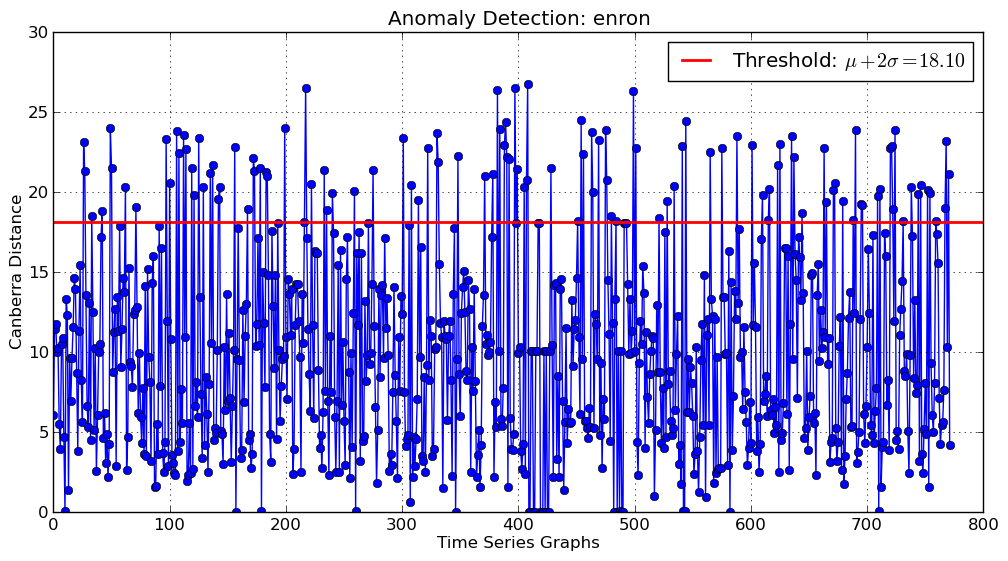
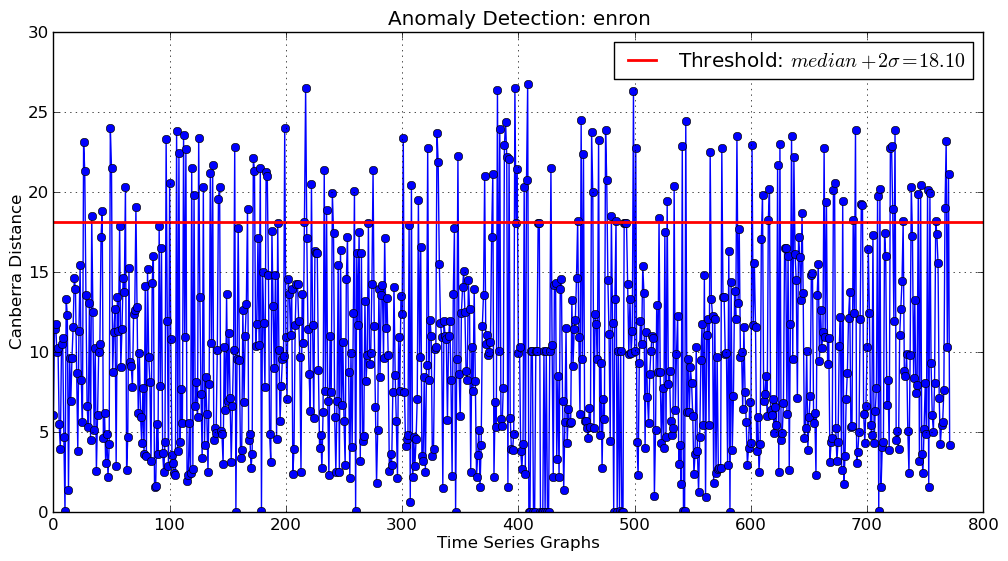
replacing mu by median in plots

Changed region(s): [[0.6151, 0.0606, 0.9841, 0.1515]]

diff --git a/netsimile.py b/netsimile.py
@@ -175,7 +175,7 @@ def plot_and_save(dists, up_limit):
     figure(num=None, figsize=(12, 6), dpi=80, facecolor='w', edgecolor='k')
     plt.plot(dists, "-o")
     axhline(y=up_limit, ls='-', c='r',
-            label='Threshold: $\mu + 2\sigma = %0.2f$'%(up_limit),
+            label='Threshold: $median + 2\sigma = %0.2f$'%(up_limit),
             lw=2)
     plt.grid(True)
     plt.legend(loc='best')
